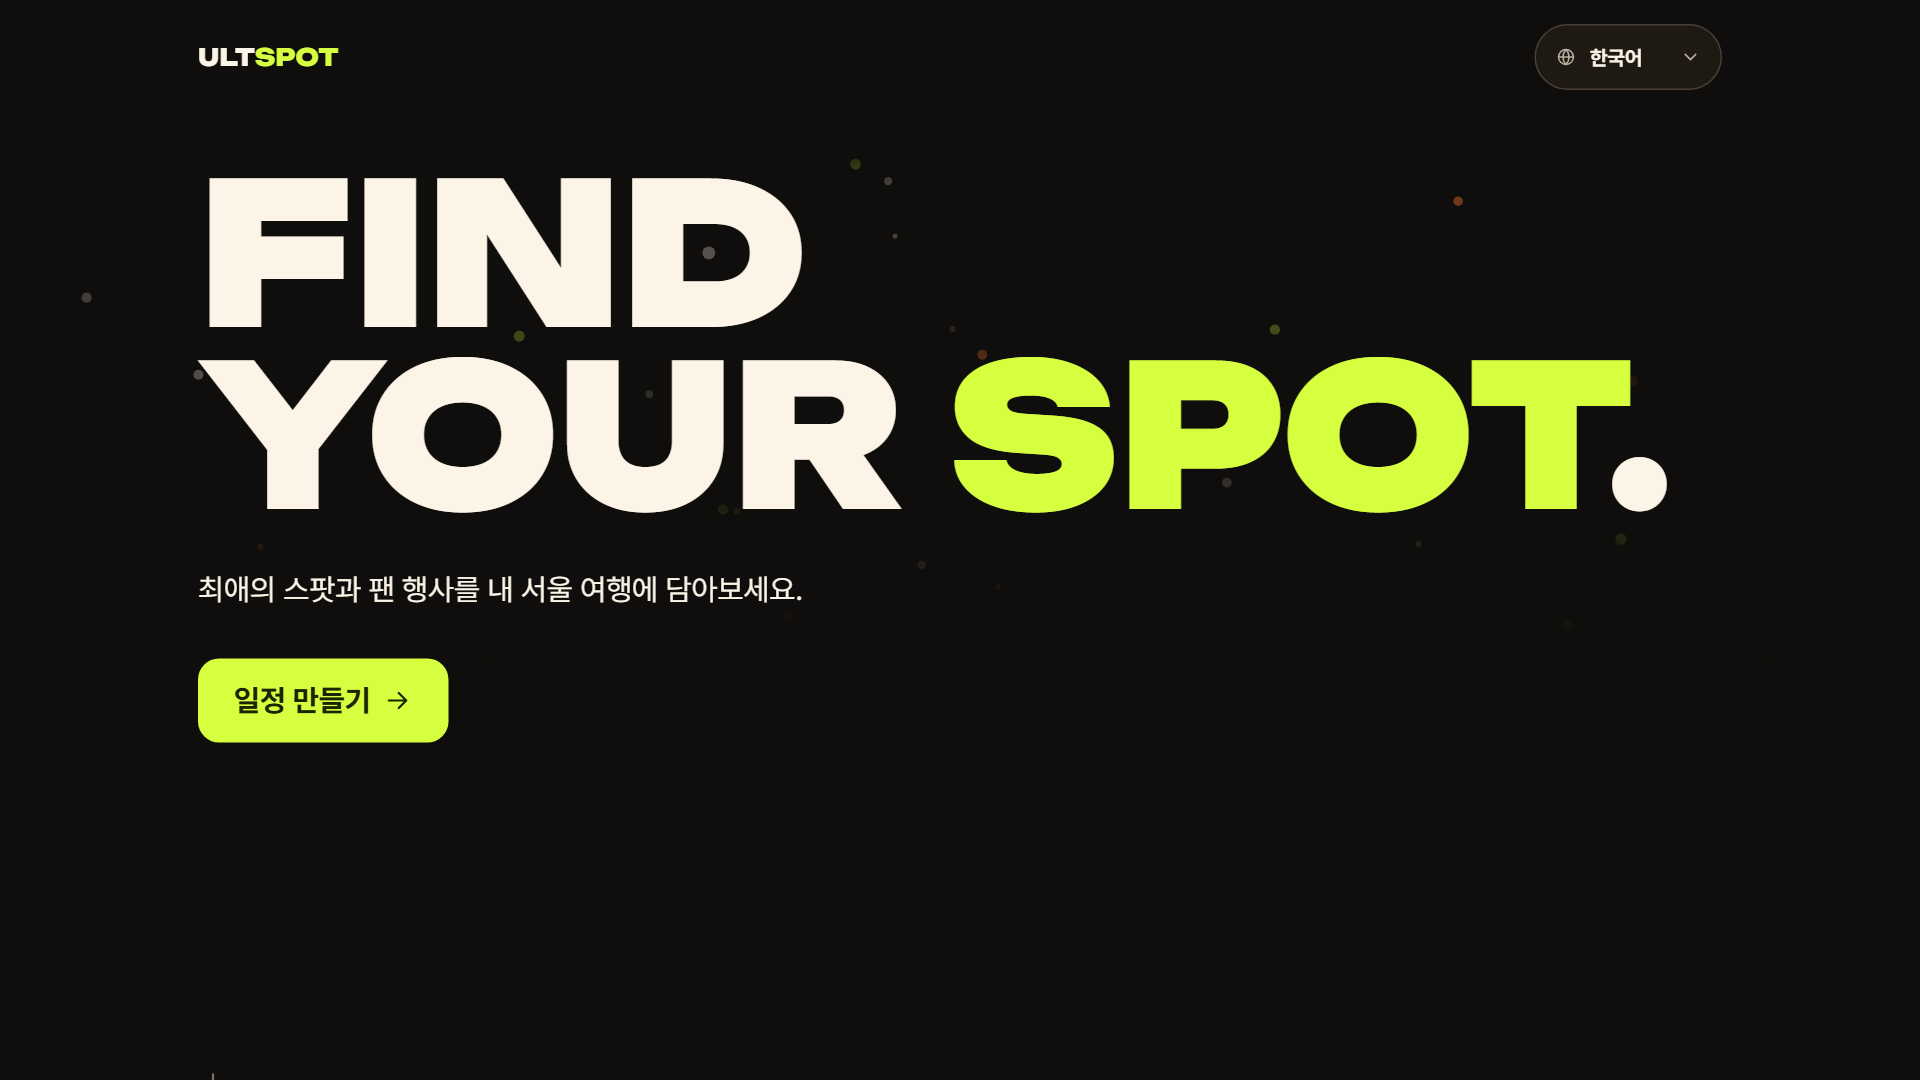
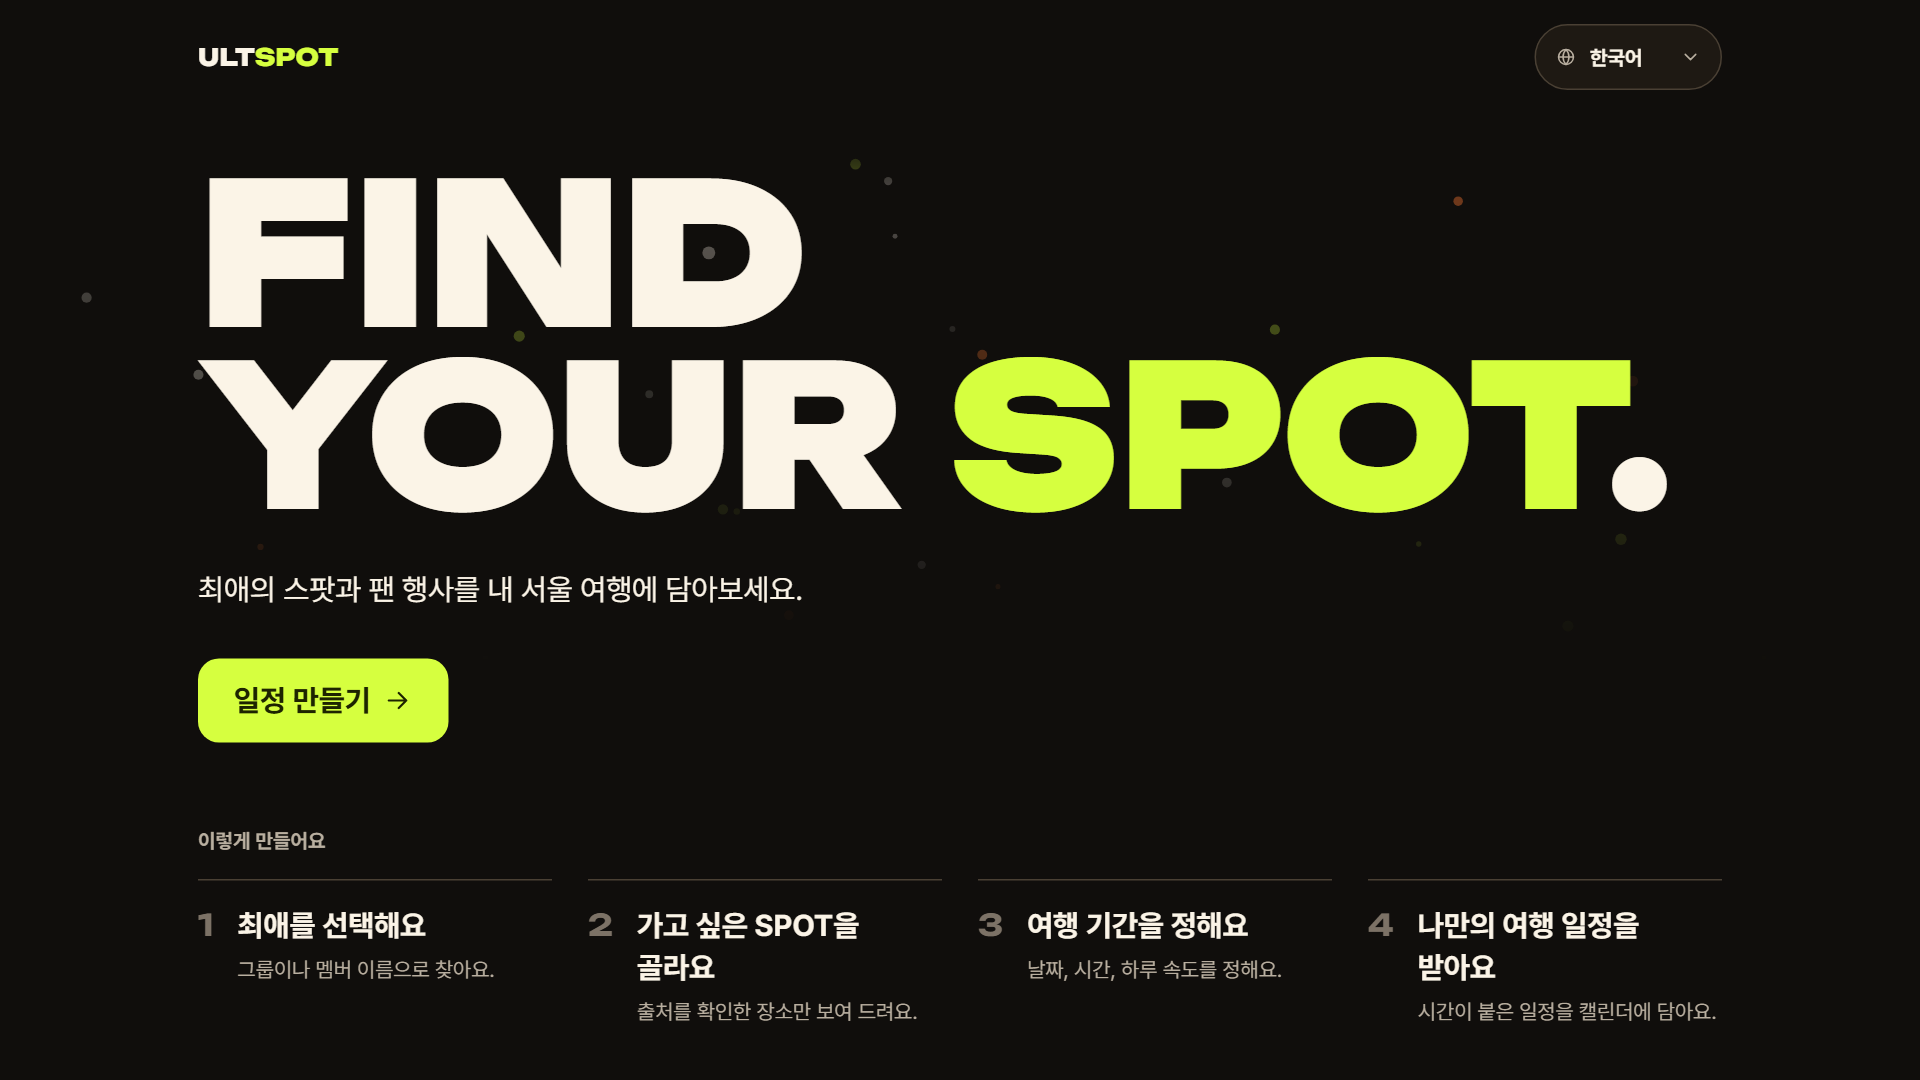
design(home): 이렇게 만들어요를 첫 화면에 같이 보이게 한다
사용자 요청. 히어로의 화면 높이 강제와 스크롤 화살표를 뺐다. 지도 배너는
그 아래라 대표 이미지에는 여전히 안 들어온다 — cover.spec이 확인한다.

일정 요약 타일에서 시간 범위 줄을 뺐다. 정류장이 하나면 그 카드의 시간과
똑같아져 e2e가 같은 글자 둘을 잡았다(planner.spec:68).

검증: planner.spec 3건·cover.spec 3건 통과, typecheck 0.

diff --git a/src/components/home-intro.tsx b/src/components/home-intro.tsx
@@ -2,7 +2,7 @@
 
 import Link from "next/link";
 import { MapBanner, Wordmark } from "@/components/brand";
-import { ArrowDownIcon, ArrowRightIcon } from "@/components/icons";
+import { ArrowRightIcon } from "@/components/icons";
 import { LanguageToggle } from "@/components/language-toggle";
 import { buttonStyles } from "@/components/ui";
 import { useI18n } from "@/i18n/locale";
@@ -22,12 +22,9 @@ export function HomeIntro() {
     </header>
 
     <section className="relative shell flex flex-1 flex-col pb-12">
-      {/* 첫 화면은 슬로건과 시작 버튼까지만 보이게 한다. 이 블록이 남은 높이를 채우므로
-          지도 배너는 항상 접힌 자리 아래에서 시작한다. 이전에는 배너가 화면 하단에
-          반쯤 걸려 잘린 채로 보였다. */}
-      {/* flex-1만으로는 늘어나지 않는다 — 페이지 전체가 이미 뷰포트보다 길어 남는 공간이 없다.
-          넓은 화면에서만 높이를 명시해 배너를 접힌 자리 아래로 민다. 모바일은 그대로 둔다. */}
-      <div className="flex flex-1 flex-col justify-center pt-8 md:min-h-[calc(100dvh-4rem)]">
+      {/* 히어로 높이를 강제하지 않는다. 사용자 요청으로 "이렇게 만들어요"가 첫 화면에
+          같이 보인다. 지도 배너는 그 아래라 대표 이미지(1280×720)에는 여전히 안 들어온다. */}
+      <div className="flex flex-col pt-8">
         {/* 슬로건은 브랜드 표기라 어느 언어에서도 영어로 둔다. */}
         {/* 줄바꿈 때문에 접근성 이름이 "FINDYOUR SPOT."으로 붙어 읽히던 것을 aria-label로 고정한다. */}
         <h1 lang="en" aria-label="Find your spot." className="text-hero text-text">
@@ -40,12 +37,6 @@ export function HomeIntro() {
           <Link href="/plan" className={buttonStyles({ size: "lg" })}>
             {t.home.cta} <ArrowRightIcon />
           </Link>
-        </div>
-        {/* 넓은 화면에서 히어로가 첫 화면을 다 차지하면 아래에 더 있다는 걸 알 길이 없다.
-            배너를 살짝 보이게 하는 대안은 대표 이미지에 지도가 다시 들어와서 버렸다.
-            장식이라 스크린리더에는 숨긴다 — 스크롤은 원래 되는 동작이다. */}
-        <div aria-hidden="true" className="mt-auto hidden justify-start pt-10 text-text-faint md:flex">
-          <ArrowDownIcon className="animate-dot-pulse text-subhead" />
         </div>
       </div>
 

diff --git a/src/components/trip-planner.tsx b/src/components/trip-planner.tsx
@@ -548,7 +548,7 @@ export function TripPlanner({ today }: { today: string }) {
           </div>
           <div className="rounded-lg border border-line bg-bg-soft px-4 py-3">
             <p className="font-display text-heading">{t.result.duration(lastStop.departure - result.stops[0].arrival)}</p>
-            <p className="mt-1 text-caption text-text-muted">{clock(result.stops[0].arrival)}–{clock(lastStop.departure)}</p>
+            {/* 시간 범위는 적지 않는다 — 정류장이 하나면 그 카드의 시간과 똑같아져 화면에 같은 글자가 둘이 된다. */}
           </div>
         </div>}
         {/* 문구 순서는 그대로 둔다 — e2e가 "N visits ·"로 이 줄을 찾는다. */}
